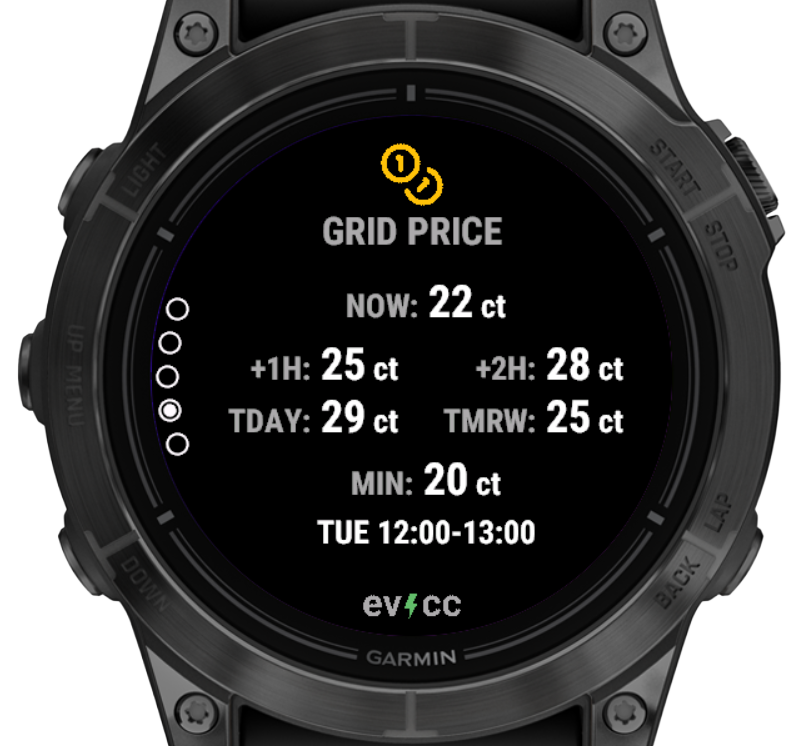
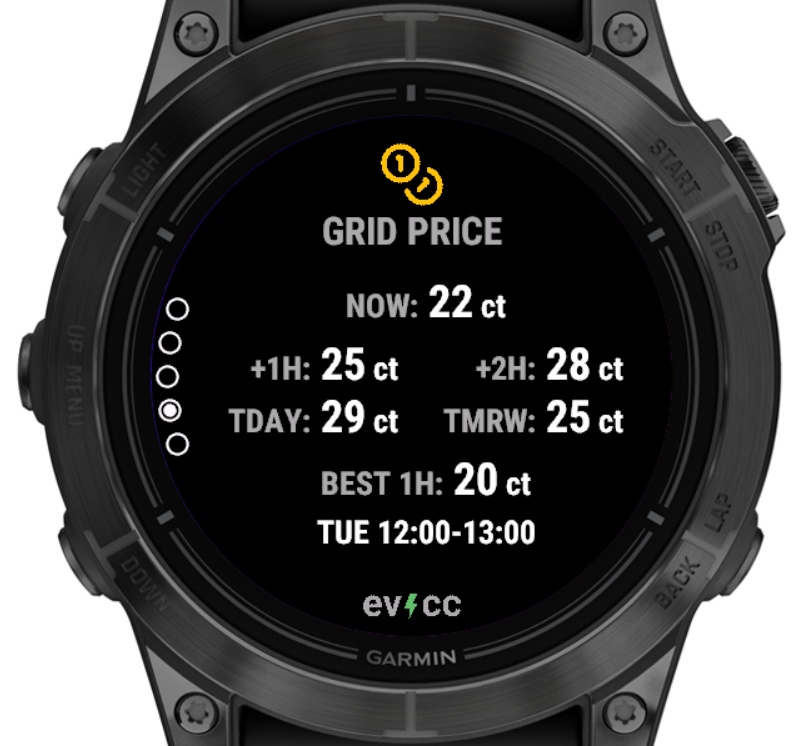
Reverted cheapest period implementation to only cover the cheapest 1 hour window (#166)

Changed region(s): [[0.4042, 0.6166, 0.6841, 0.6783]]

diff --git a/docs/README.md b/docs/README.md
@@ -181,7 +181,7 @@ It displays:
 - **+2H**: the average price from 60 to 120 minutes from now  
 - **TDAY**: the average price for the remainder of the day  
 - **TMRW**: the average price for the next day  
-- **MIN**: the average price and time of the cheapest hour within the covered time frame
+- **BEST 1H**: the average price and time of the cheapest hour within the covered time frame
 
 <table class="layoutTable">
   <tr>